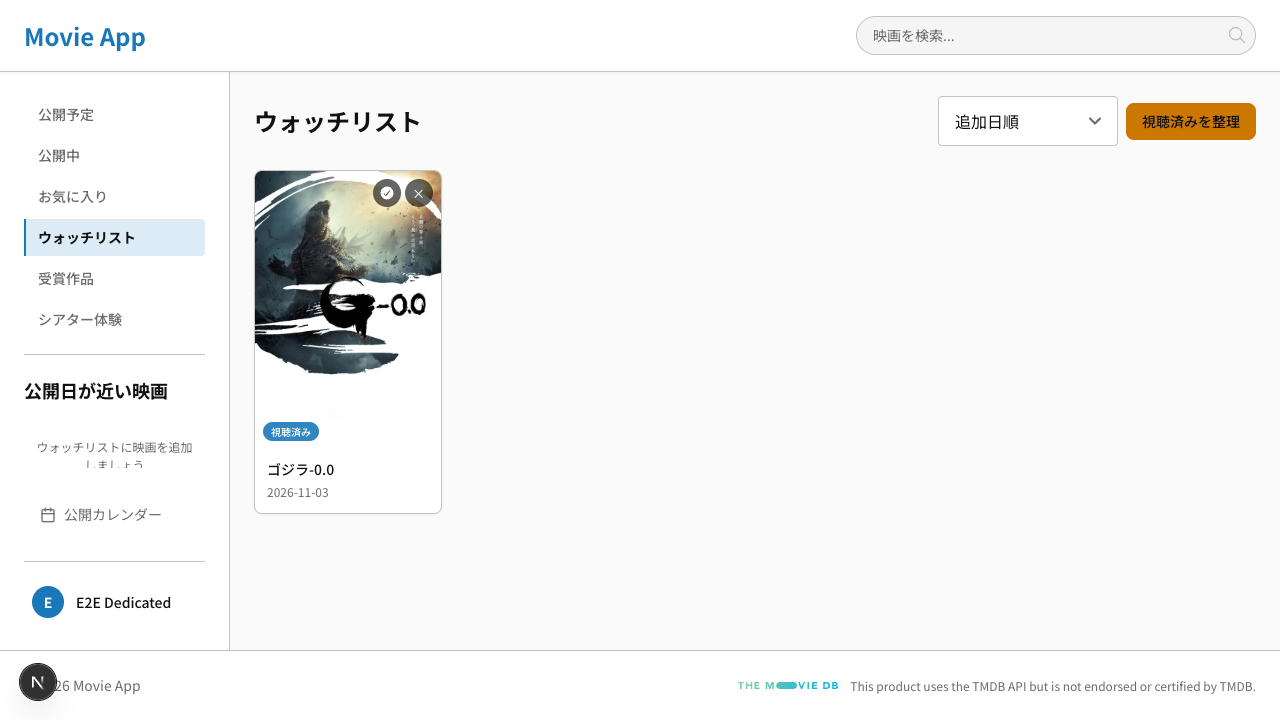
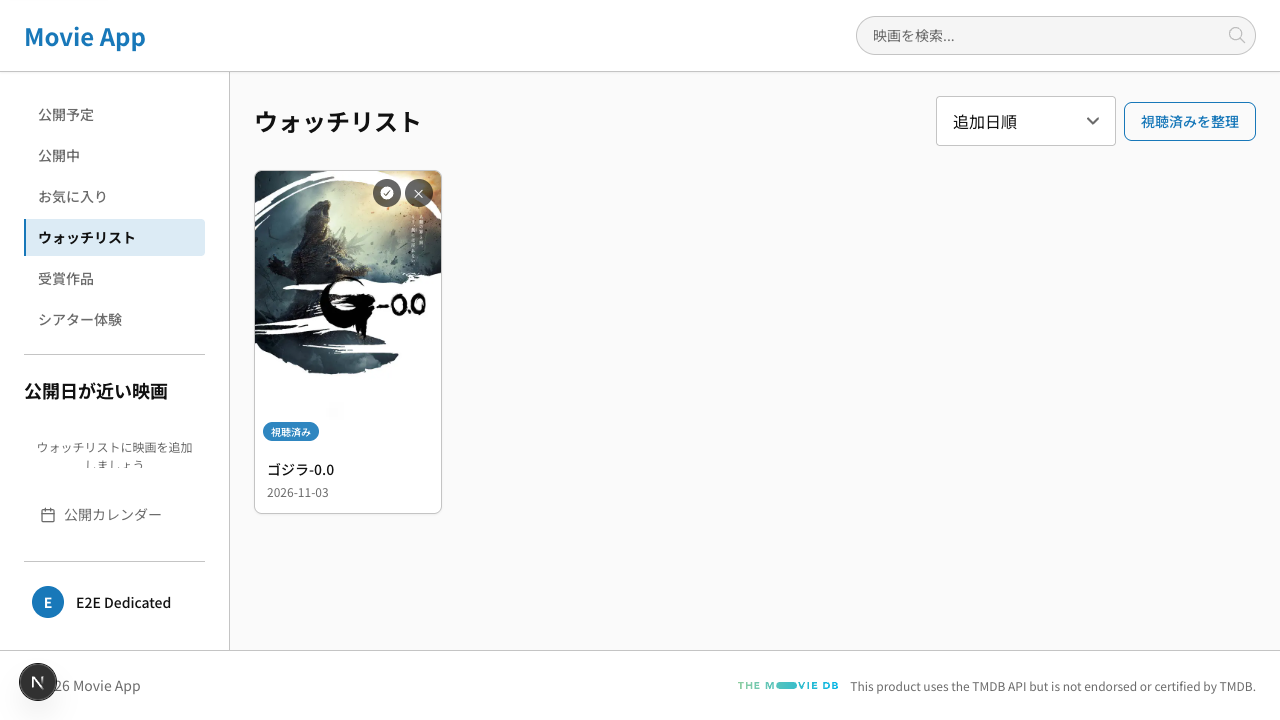
fix(watchlist): 整理ボタンを ghost にしてツールバーの扱いを揃える
secondary は $secondary-900 のベタ塗りで、一覧の補助操作としては主張が強すぎた。
同じ h1 + controls 構造を持つ映画一覧のツールバー（movieListToolbar）は
ghost を使っており、secondary は設定画面の操作・管理画面・リトライ側の変種。

Changed region(s): [[0.8438, 0.1222, 1.0, 0.2139], [0.7188, 0.1528, 0.8125, 0.1833]]

diff --git a/src/features/watchlist/watchlistPage/watchlistPage.tsx b/src/features/watchlist/watchlistPage/watchlistPage.tsx
@@ -120,7 +120,9 @@ export const WatchlistPage = memo(function WatchlistPage() {
             aria-label='ソート順を選択'
             className={styles.c_watchlist_page__sort}
           />
-          <Button variant='secondary' size='sm' onClick={handleCleanupOpen}>
+          {/* 一覧ページのツールバーに置く補助操作は ghost で揃える
+              （映画一覧の movieListToolbar と同じ扱い） */}
+          <Button variant='ghost' size='sm' onClick={handleCleanupOpen}>
             {WATCHLIST_CLEANUP_LABELS.OPEN_BUTTON}
           </Button>
         </div>
